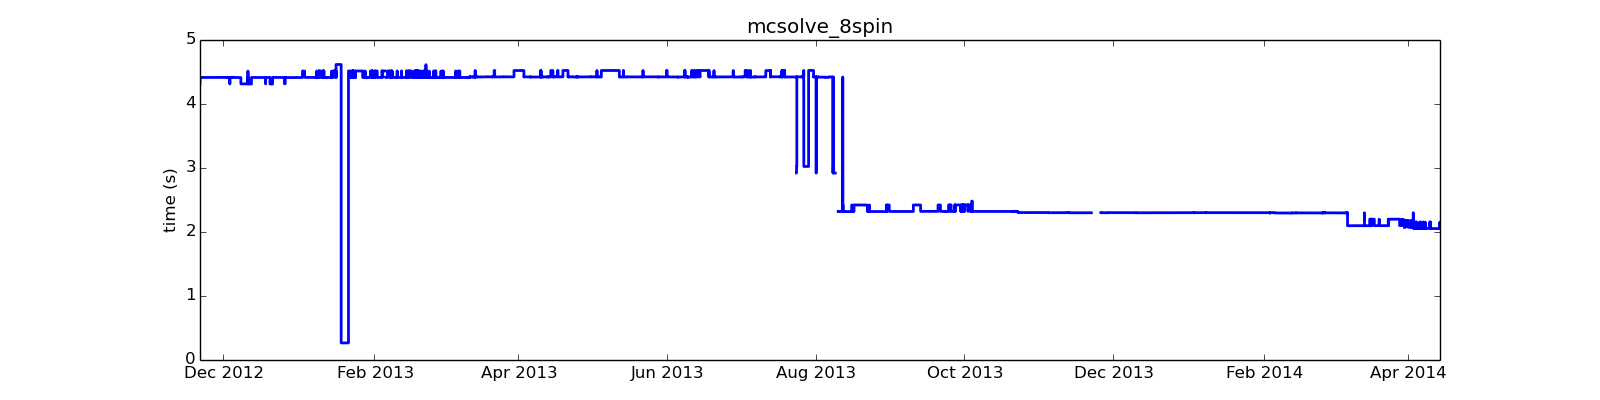
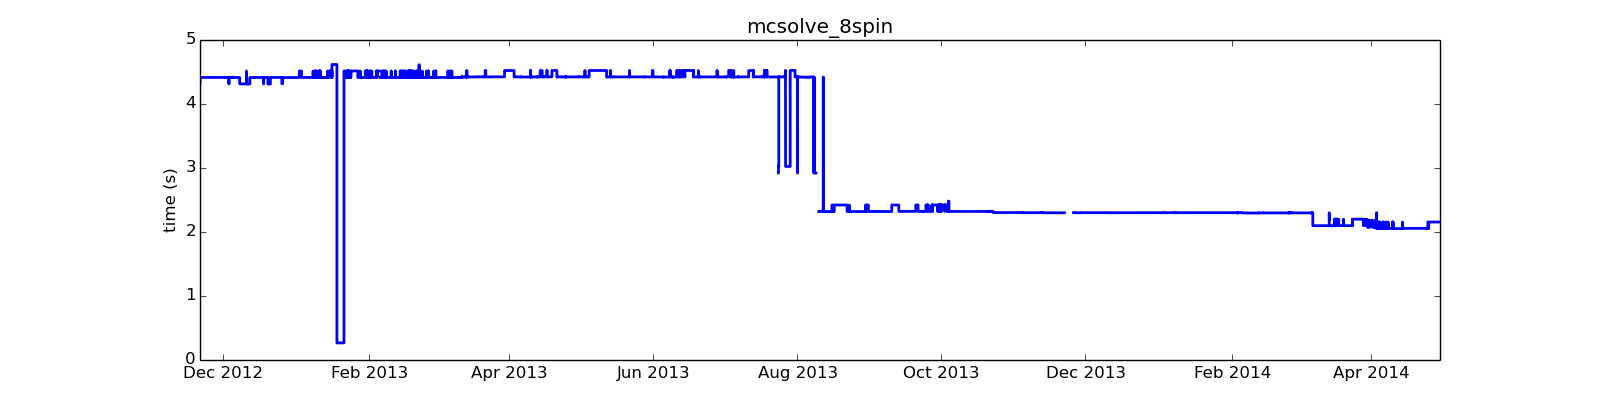
reran benchmarks, added summary plot

diff --git a/README.md b/README.md
@@ -3,6 +3,11 @@ continuous-benchmark
 
 Tools for continuously bench-marking qutip's development branch
 
+Summary
+-------
+
+![summary](https://raw.github.com/qutip/continuous-benchmark/master/graphs/summary.png)
+
 
 expect_25
 -----------------
